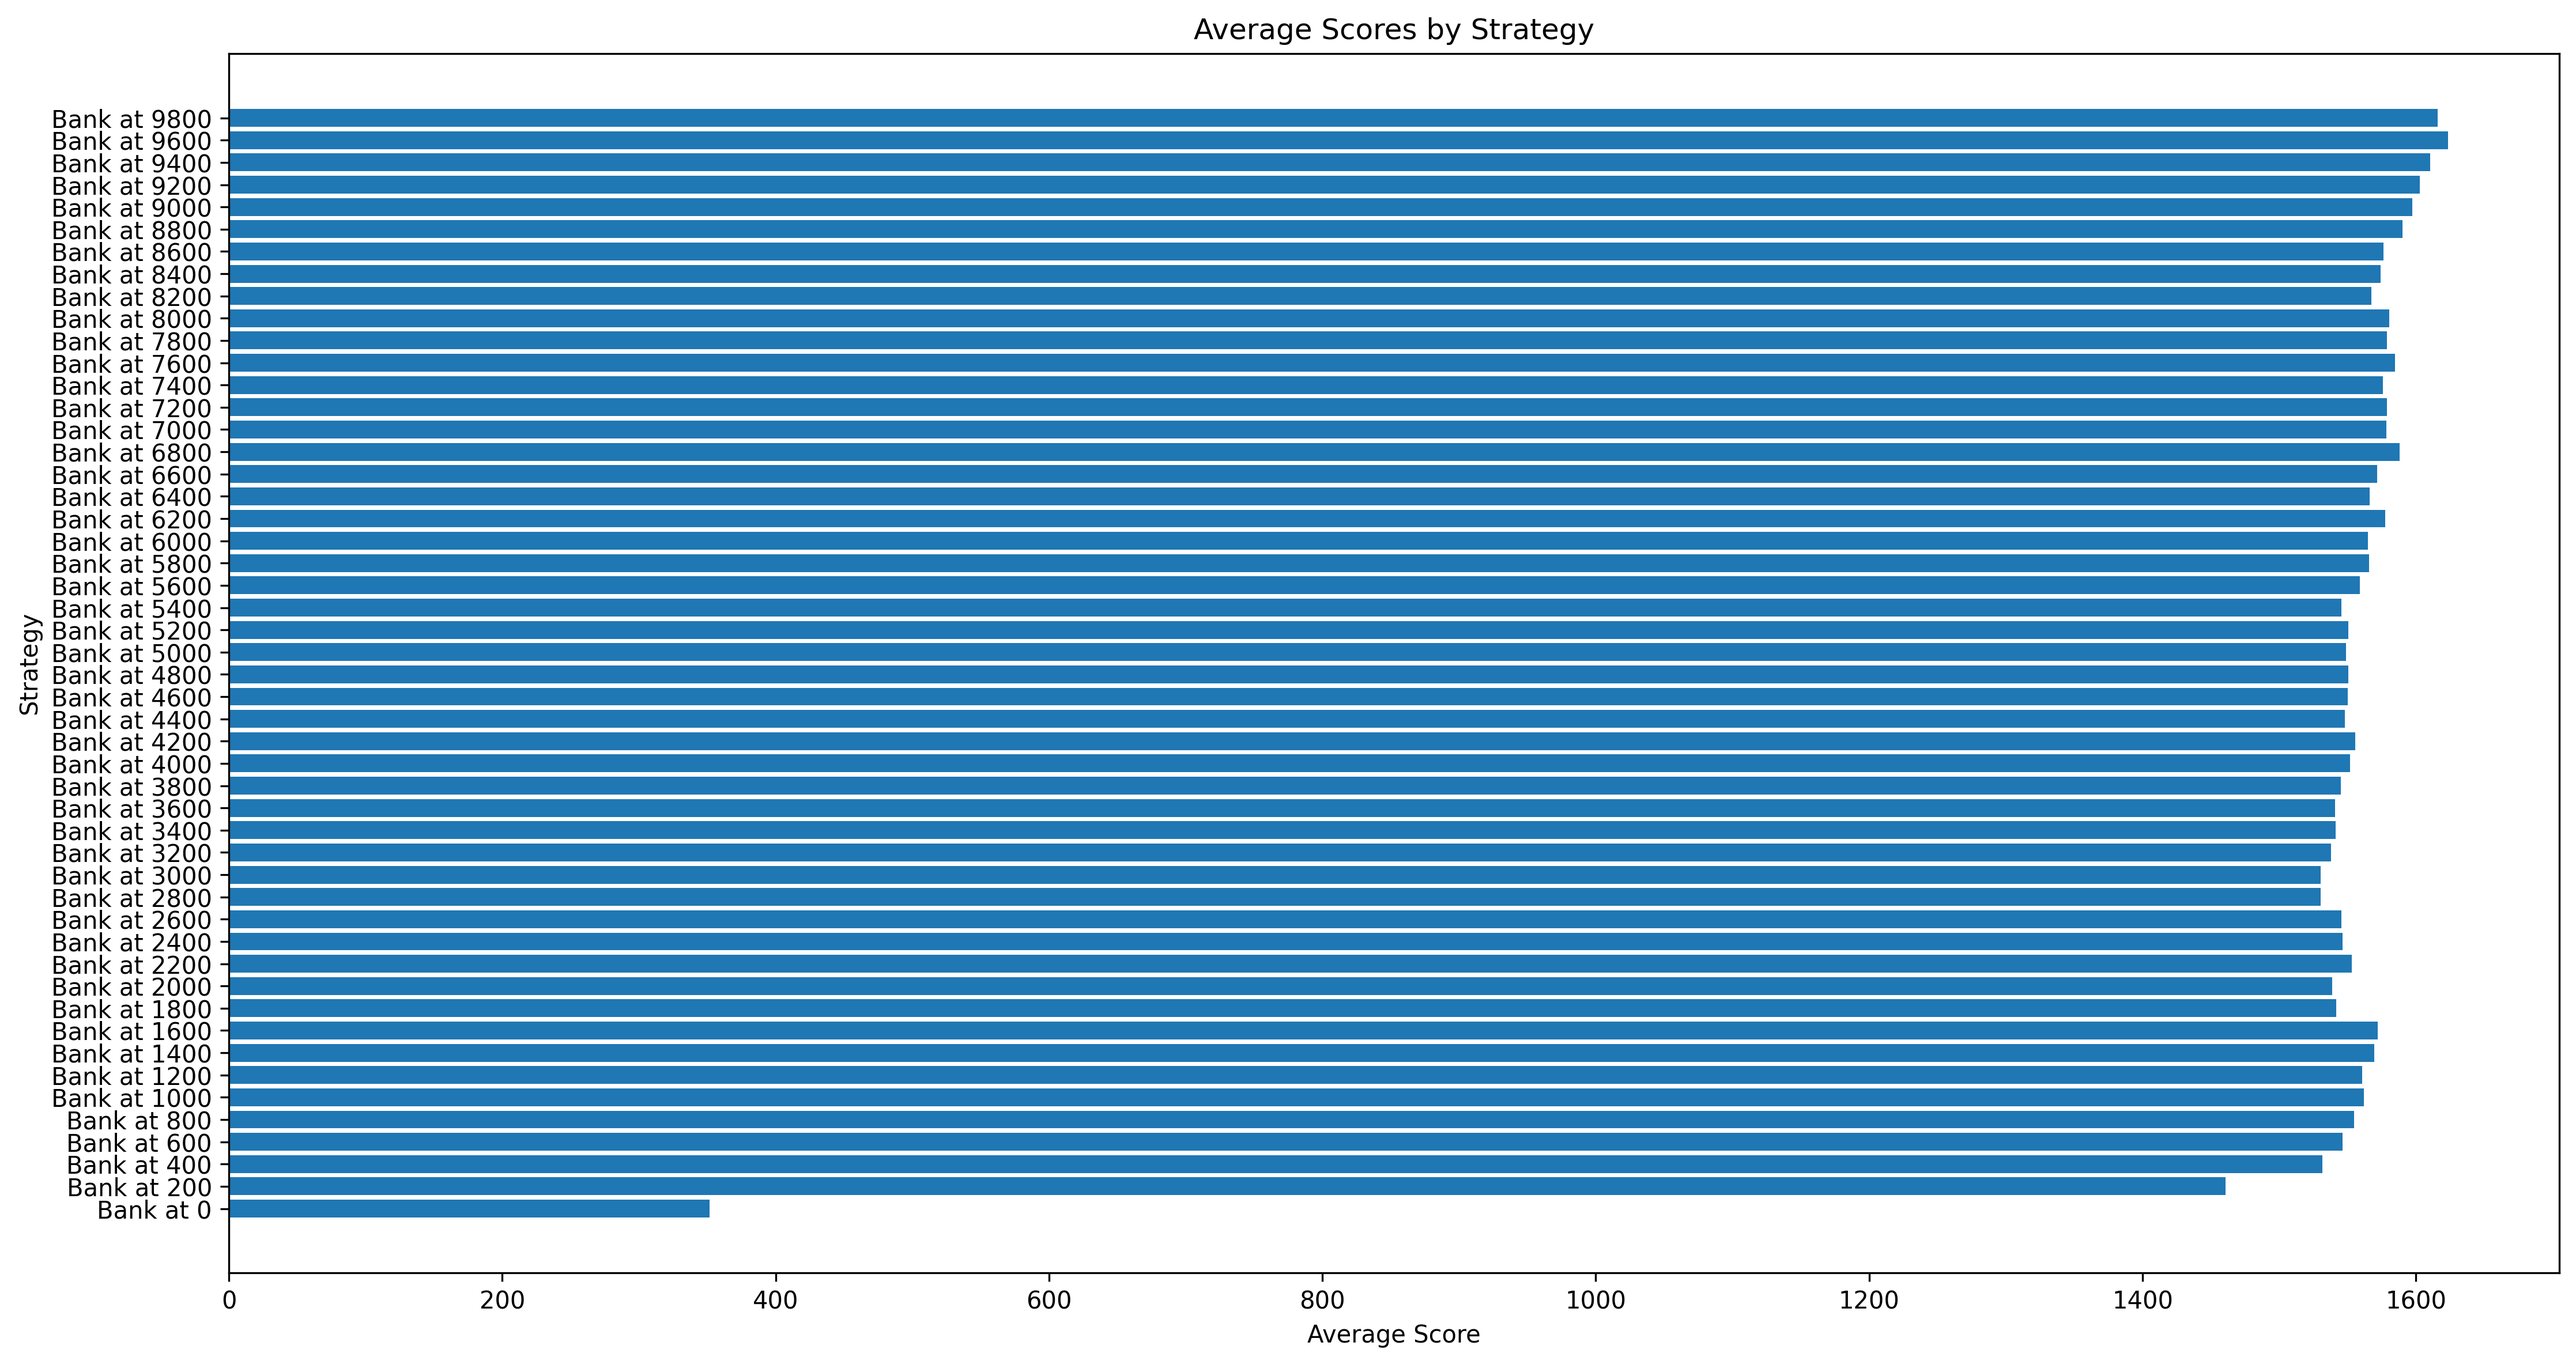
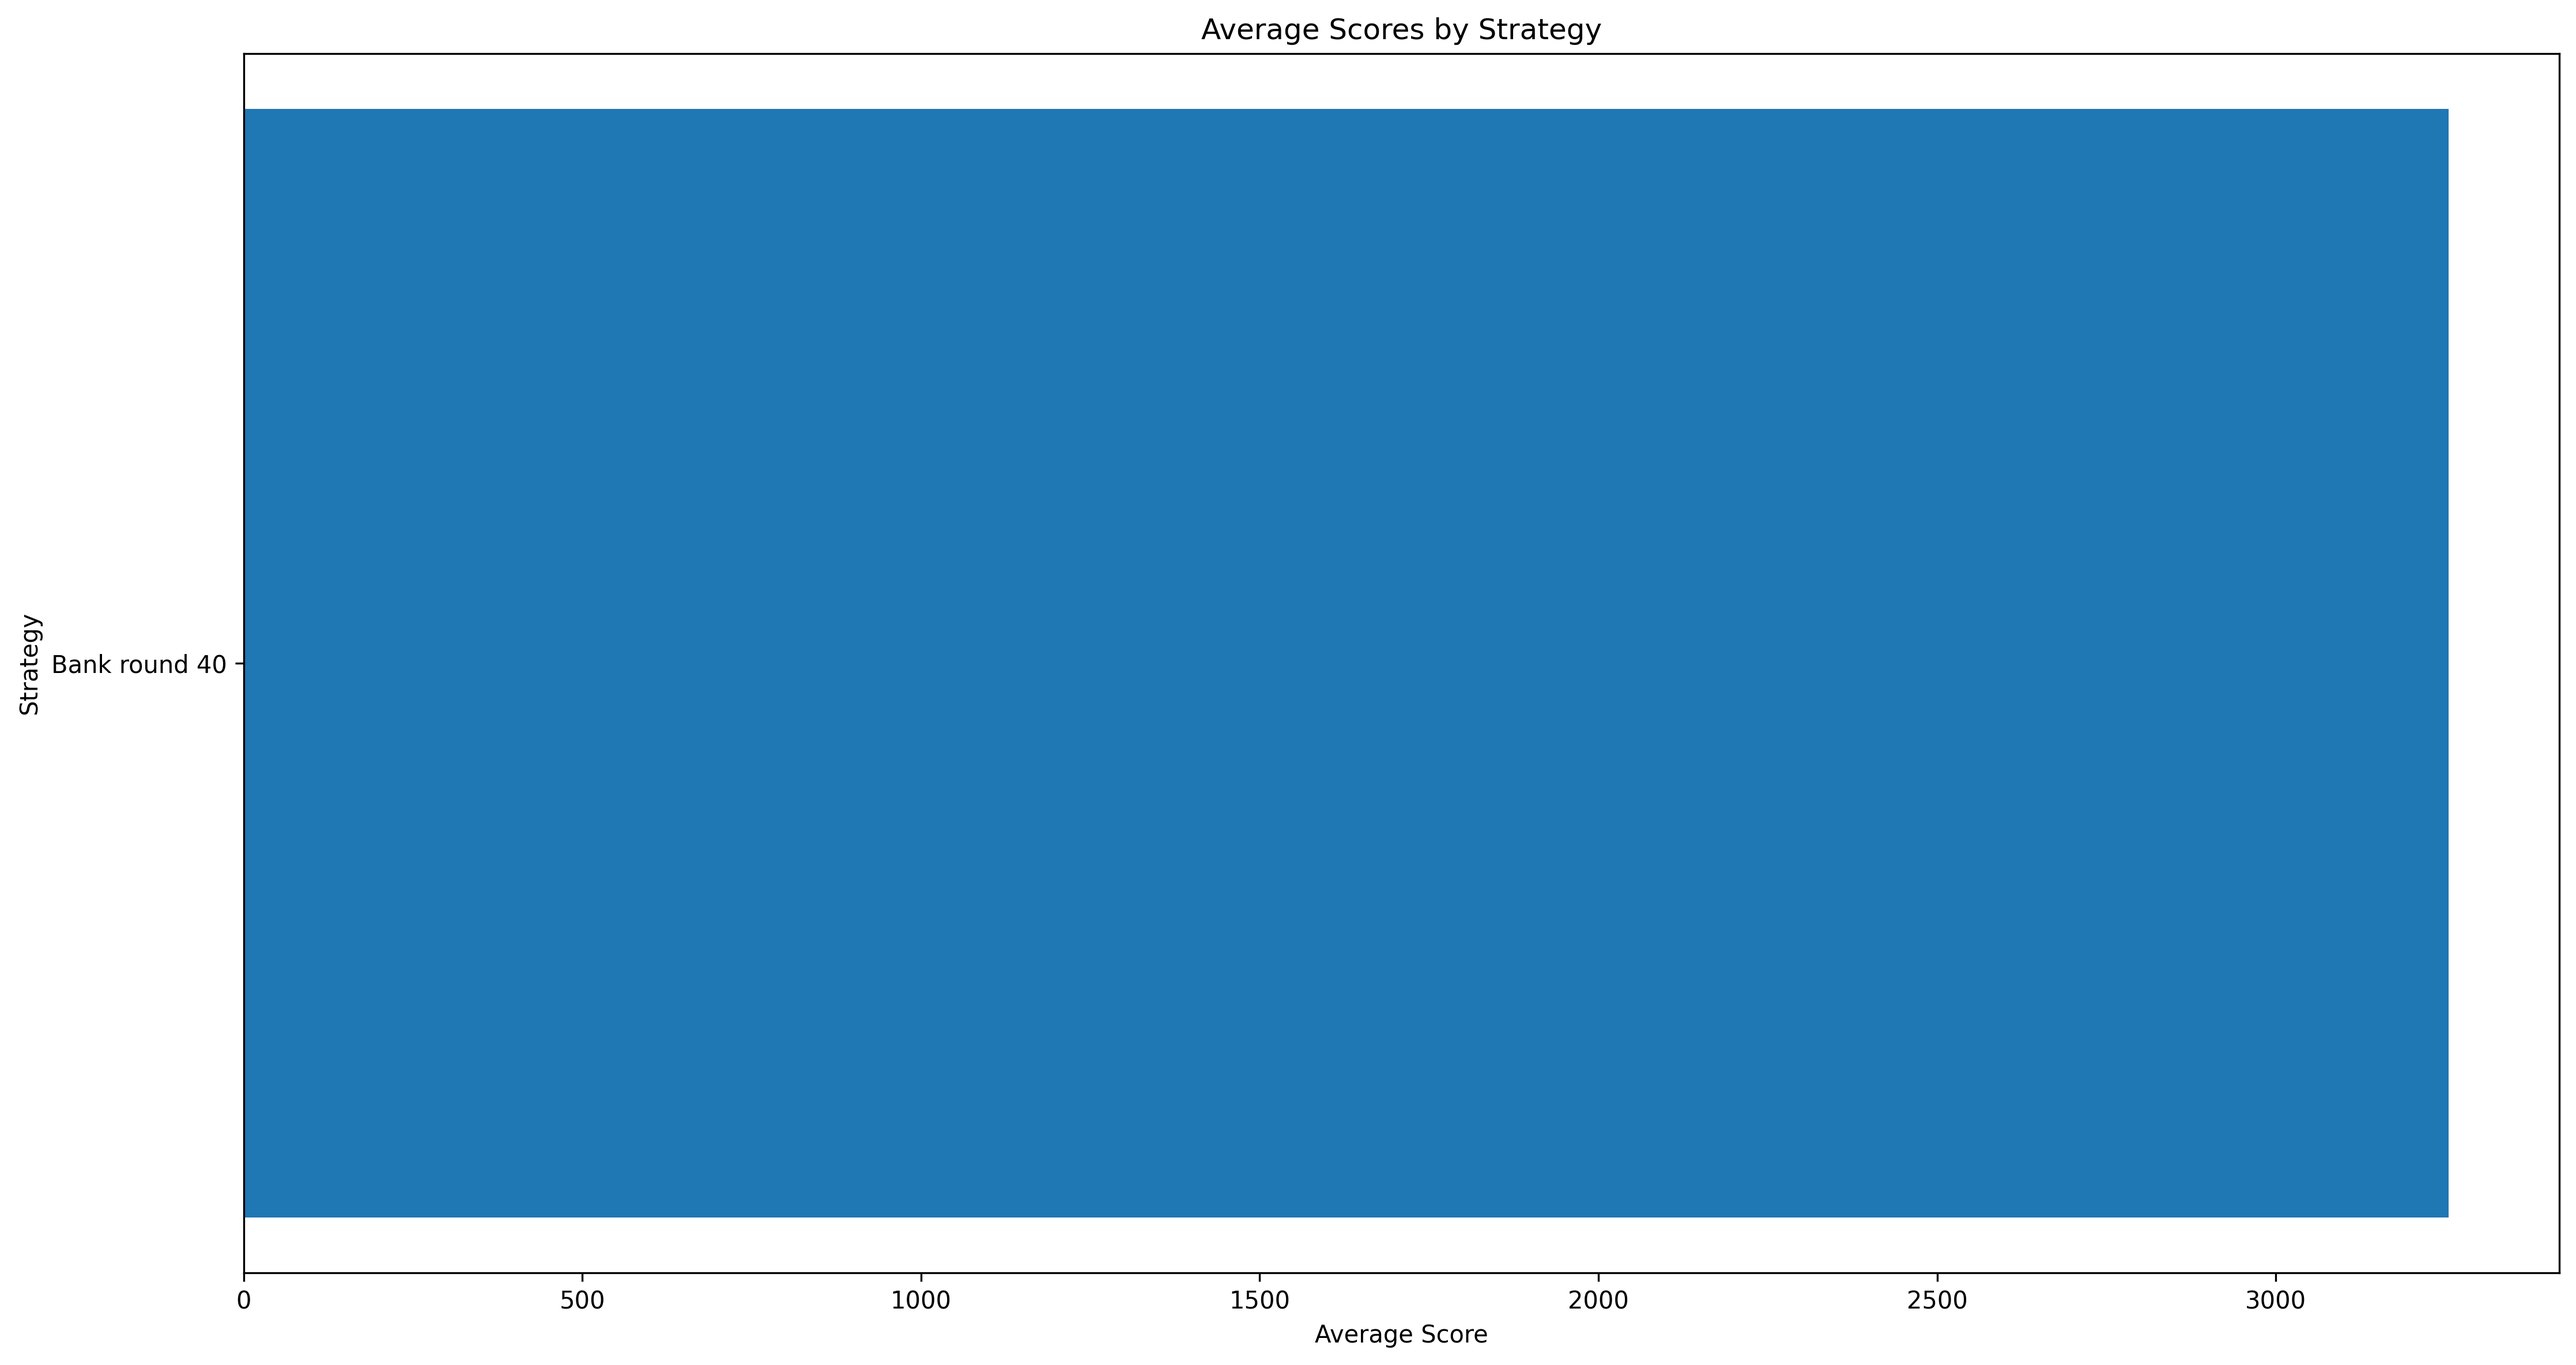
more data

diff --git a/simulator.py b/simulator.py
@@ -5,6 +5,7 @@ import logging
 import signal
 import sys
 import statistics
+import numpy as np
 
 log = logging.getLogger(__name__)
 
@@ -20,6 +21,9 @@ class GameState:
         self.dice1 = 0
         self.dice2 = 0
         self.round = 0
+        self.scores = {}
+        self.strategies = []
+        self.rounds = 0
 
     def sum(self):
         return self.dice1 + self.dice2
@@ -39,6 +43,7 @@ class GameState:
                 self.bank += added
         elif added == 7:
             advanced = False
+            log.info("Rolled 7")
         elif self.dice1 == self.dice2:
             self.bank *= 2
         else:
@@ -56,13 +61,68 @@ class Strategy:
         pass
 
 
-class BankAtAConstant(Strategy):
+class BankAfterRound(Strategy):
+    def __init__(self, name, round):
+        self.round = round
+        super().__init__(name)
+
+    def will_bank(self, state):
+        return state.round >= self.round
+
+
+class ConstantBank(Strategy):
     def __init__(self, name, bank_at):
         self.bank_at = bank_at
         super().__init__(name)
 
     def will_bank(self, state):
         return state.bank >= self.bank_at
+
+
+class RoundBasedConstantBank(Strategy):
+    def __init__(self, name, values):
+        """
+        values: [[round, bank_at], [round, bank_at], ...]
+        if less that round, bank it
+        """
+        self.values = values
+        super().__init__(name)
+
+    def will_bank(self, state):
+        for round, bank_at in self.values:
+            if state.round <= round:
+                return state.bank >= bank_at
+
+        last_value = self.values[-1][1]
+        return state.bank >= last_value
+
+
+class SmartBank(Strategy):
+    def __init__(
+        self, name, lead_bank=500, catch_up_bank=300, offset=100, divide_mult=1
+    ):
+        self.lead_bank = lead_bank
+        self.catch_up_bank = catch_up_bank
+        self.offset = offset
+        self.divide_mult = divide_mult
+        super().__init__(name)
+
+    def will_bank(self, state):
+        my_score = state.scores.get(self.name, 0)
+        highest_other_score = 0
+        for strategy in state.strategies:
+            if strategy.name == self.name:
+                continue
+            highest_other_score = max(
+                highest_other_score, state.scores.get(strategy.name, 0)
+            )
+
+        if my_score < highest_other_score + self.offset:
+            rounds_left = max((state.rounds - state.round) * self.divide_mult, 1)
+            difference = highest_other_score - my_score
+            return state.bank >= difference / rounds_left + self.catch_up_bank
+
+        return state.bank >= self.lead_bank
 
 
 def main():
@@ -76,21 +136,41 @@ def main():
     if args.verbose:
         logging.basicConfig(level=logging.INFO)
 
-    strategies = []
-    for v in range(50):
-        value = v * 200
-        strategies.append(BankAtAConstant(f"Bank at {value}", value))
+    strategies = [
+        # RoundBasedConstantBank("Bank 1500/600", [[10, 1500], [20, 600]]),
+        # RoundBasedConstantBank("Bank 1000/500", [[10, 1000], [20, 500]]),
+    ]
+
+    strategies.append(BankAfterRound(f"Bank round {40}", 40))
+    # for v in range(1, 40):
+    #     strategies.append(BankAfterRound(f"Bank round {v}", v))
+
+    # for v in range(200, 15000, 500):
+    #     strategies.append(ConstantBank(f"Bank at {v}", v))
+
+    # for v in range(200, 2000, 200):
+    #     strategies.append(SmartBank(f"Scaled diff {v}", catch_up_bank=v))
+
+    # for v in range(200, 1000, 200):
+    #     strategies.append(
+    #         SmartBank(f"Absolute diff {v}", catch_up_bank=v, divide_mult=0)
+    #     )
 
     strategy_names = [s.name for s in strategies]
 
+    reached_round_count = {}
     results = {}
     wins = {}
+    bank_count = {}
     for strategy in strategies:
         results[strategy.name] = []
         wins[strategy.name] = 0
+        bank_count[strategy.name] = 0
 
     for i in range(args.iterations):
         game = GameState()
+        game.rounds = args.rounds
+        game.strategies = strategies
         log.info(f"Starting game {i}")
 
         scores = {}
@@ -106,6 +186,9 @@ def main():
 
             while game.advance():
                 log.info(f"Round {r} bank: {game.bank}")
+                reached_round_count[game.round - 1] = (
+                    reached_round_count.get(game.round - 1, 0) + 1
+                )
                 for strategy in strategies:
                     if strategy in banked_players:
                         continue
@@ -114,6 +197,7 @@ def main():
                     if should_bank:
                         scores[strategy.name] += game.bank
                         banked_players.add(strategy)
+                        bank_count[strategy.name] += 1
                         log.info(f"{strategy.name} banked {game.bank}")
 
         for strategy in strategies:
@@ -121,8 +205,12 @@ def main():
             log.info(f"{strategy.name} scored {scores[strategy.name]}")
 
         # determine the winner
-        winner = max(scores, key=scores.get)
-        wins[winner] += 1
+        max_score = max(scores.values())
+        winners = [name for name, score in scores.items() if score == max_score]
+        for winner in winners:
+            wins[winner] += 1
+
+        game.scores = scores
 
     average_results = {}
     for strategy in strategies:
@@ -131,7 +219,32 @@ def main():
 
     stddev_results = {}
     for strategy in strategies:
-        stddev_results[strategy.name] = statistics.stdev(results[strategy.name])
+        if len(results[strategy.name]) > 1:
+            stddev_results[strategy.name] = statistics.stdev(results[strategy.name])
+        else:
+            stddev_results[strategy.name] = 0
+
+    chances = args.rounds * args.iterations
+    print("ROUNDS REACHED", reached_round_count)
+    ROUNDS_REACHED = 50
+    round_reach_likelihood = []
+    for i in range(ROUNDS_REACHED):
+        times_reached = reached_round_count.get(i, 0)
+        round_reach_likelihood.append(times_reached / chances)
+
+    # graph the likelihood of reaching a round using reached_round_count
+    plt.figure(figsize=(15, 8))
+    plt.plot(range(ROUNDS_REACHED), round_reach_likelihood)
+    plt.xlabel("Round")
+    plt.ylabel("Likelihood of Reaching Round")
+    plt.title("Likelihood of Reaching Round")
+    plt.gca().yaxis.set_major_formatter(plt.FuncFormatter(lambda x, _: f'{x:.0%}'))
+    plt.gca().yaxis.set_major_locator(plt.MultipleLocator(0.05))  # Show more percentage ticks
+    plt.gca().xaxis.set_major_locator(plt.MultipleLocator(1))  # Space vertical lines every 1
+    plt.grid(axis='y', linestyle='--', alpha=0.7)
+    plt.grid(axis='x', linestyle='--', alpha=0.7)  # Add vertical dotted lines
+    plt.tight_layout()
+    plt.savefig("results-round-reach.png", bbox_inches="tight", dpi=300)
 
     # histogram
     fig, axes = plt.subplots(5, 10, figsize=(20, 10), sharex=True, sharey=True)
@@ -168,6 +281,15 @@ def main():
     plt.title("Average Scores by Strategy")
     plt.tight_layout()
     plt.savefig("results-avg-score.png", bbox_inches="tight", dpi=300)
+
+    # render the number of times each strategy banked
+    plt.figure(figsize=(15, 8))
+    plt.barh(list(bank_count.keys()), list(bank_count.values()))
+    plt.xlabel("Number of Times Banked")
+    plt.ylabel("Strategy")
+    plt.title("Number of Times Banked by Strategy")
+    plt.tight_layout()
+    plt.savefig("results-bank-count.png", bbox_inches="tight", dpi=300)
 
 
 if __name__ == "__main__":
